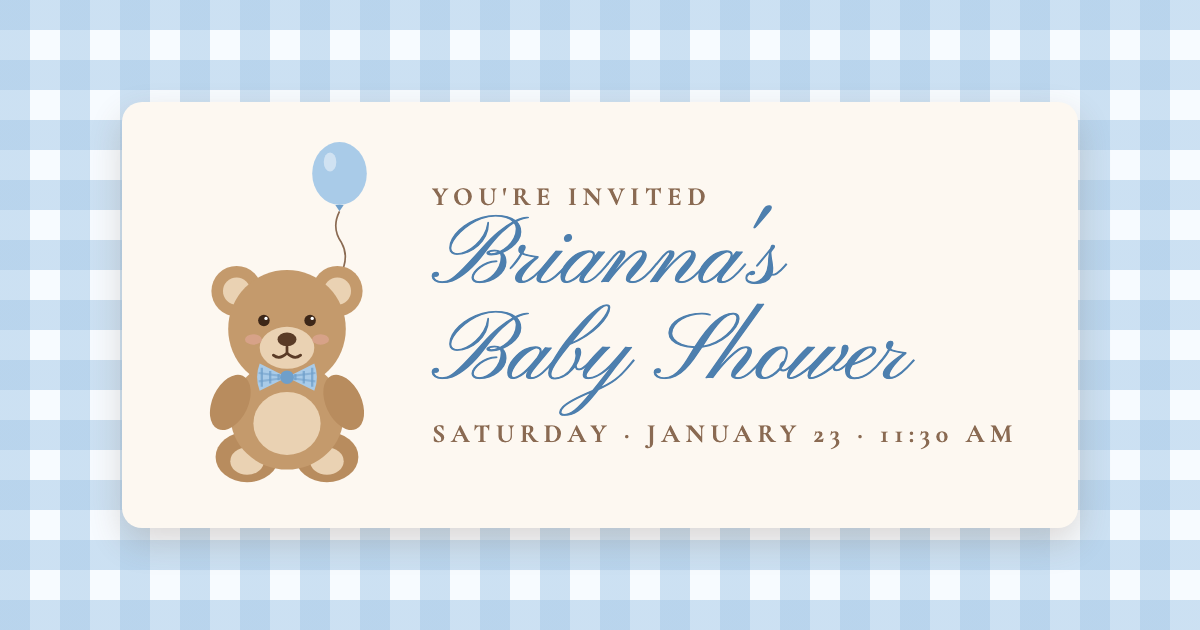
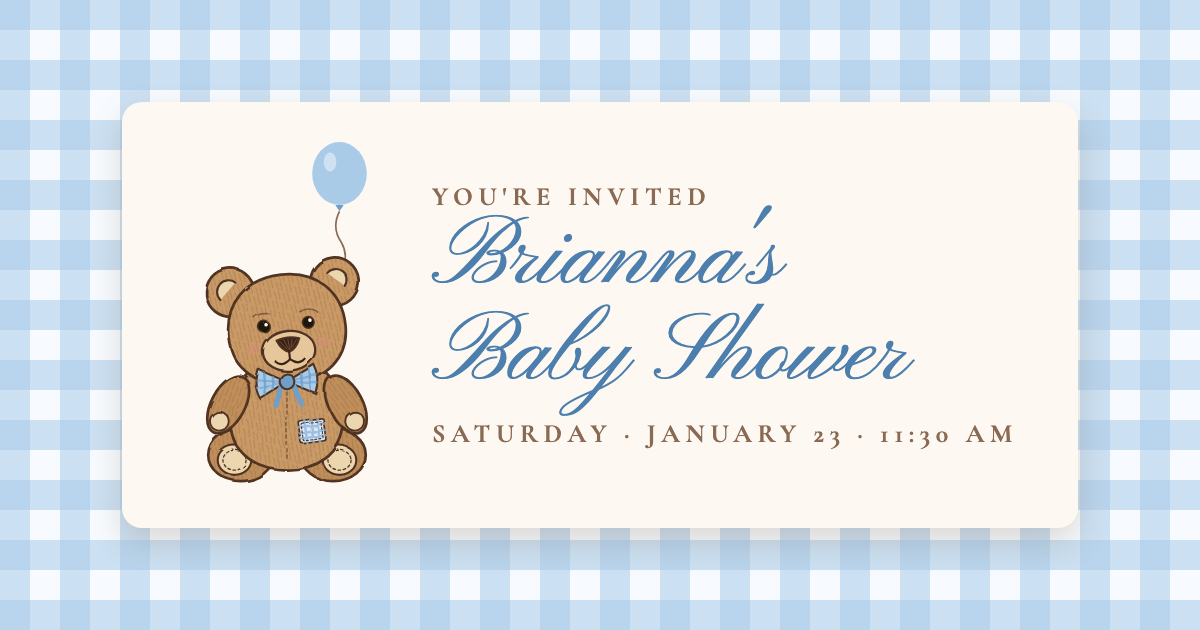
Retro bear, remove predictions game, new wording, diapers or wipes

Changed region(s): [[0.1542, 0.3921, 0.3083, 0.7841]]

diff --git a/index.html b/index.html
@@ -106,7 +106,7 @@ a{color:inherit}
 .honor .caps{font-size:.68rem}
 .honor h1{font-family:var(--script);font-weight:400;font-size:3.9rem;color:var(--blue-ink);line-height:1;margin:8px 0 2px}
 .honor .sub{font-size:1.15rem;font-style:italic}
-.honor .bear{width:110px;margin:4px auto 0;display:block}
+.honor .bear{width:140px;margin:4px auto 0;display:block}
 .when .day{font-weight:700;letter-spacing:.2em;font-size:.78rem}
 .when .date{font-family:var(--script);font-size:clamp(1.7rem,8vw,2.4rem);color:var(--blue-ink);margin:6px 0 2px;line-height:1.1}
 .when .time{font-weight:700;letter-spacing:.14em;font-size:.95rem}
@@ -177,33 +177,73 @@ textarea{min-height:84px;resize:vertical}
 <!-- ===== reusable art ===== -->
 <svg width="0" height="0" style="position:absolute" aria-hidden="true">
   <defs>
+    <!-- vintage storybook teddy: inked outlines, hand-drawn wobble, mohair texture, stitched details -->
+    <filter id="inkwobble" x="-5%" y="-5%" width="110%" height="110%">
+      <feTurbulence type="fractalNoise" baseFrequency="0.035" numOctaves="2" seed="7"/>
+      <feDisplacementMap in="SourceGraphic" scale="3"/>
+    </filter>
+    <pattern id="mohair" width="9" height="9" patternUnits="userSpaceOnUse" patternTransform="rotate(18)">
+      <path d="M1 2 l2 3 M5 1 l1.5 3.5 M3 6 l2 2.5 M7 5 l1 3" stroke="#8a5f38" stroke-width=".9" stroke-linecap="round" opacity=".45"/>
+    </pattern>
     <symbol id="bear" viewBox="0 0 200 230">
-      <!-- ears -->
-      <circle cx="52" cy="42" r="24" fill="#c49a6c"/><circle cx="52" cy="42" r="13" fill="#ead2b3"/>
-      <circle cx="148" cy="42" r="24" fill="#c49a6c"/><circle cx="148" cy="42" r="13" fill="#ead2b3"/>
-      <!-- legs -->
-      <ellipse cx="62" cy="200" rx="30" ry="24" fill="#b88c5e"/><ellipse cx="62" cy="204" rx="16" ry="13" fill="#ead2b3"/>
-      <ellipse cx="138" cy="200" rx="30" ry="24" fill="#b88c5e"/><ellipse cx="138" cy="204" rx="16" ry="13" fill="#ead2b3"/>
-      <!-- body -->
-      <ellipse cx="100" cy="160" rx="54" ry="52" fill="#c49a6c"/>
-      <ellipse cx="100" cy="168" rx="32" ry="30" fill="#ead2b3"/>
-      <!-- arms -->
-      <ellipse cx="46" cy="148" rx="17" ry="28" transform="rotate(25 46 148)" fill="#b88c5e"/>
-      <ellipse cx="154" cy="148" rx="17" ry="28" transform="rotate(-25 154 148)" fill="#b88c5e"/>
-      <!-- head -->
-      <circle cx="100" cy="78" r="56" fill="#c49a6c"/>
-      <ellipse cx="100" cy="96" rx="26" ry="20" fill="#ead2b3"/>
-      <ellipse cx="100" cy="88" rx="9" ry="6.5" fill="#5a3b26"/>
-      <path d="M100 95 v6 M100 101 q-7 7 -13 2 M100 101 q7 7 13 2" stroke="#5a3b26" stroke-width="2.6" fill="none" stroke-linecap="round"/>
-      <circle cx="78" cy="70" r="5.5" fill="#3d2718"/><circle cx="122" cy="70" r="5.5" fill="#3d2718"/>
-      <circle cx="80" cy="68" r="1.6" fill="#fff"/><circle cx="124" cy="68" r="1.6" fill="#fff"/>
-      <ellipse cx="68" cy="88" rx="8" ry="5" fill="#e8a9a0" opacity=".55"/><ellipse cx="132" cy="88" rx="8" ry="5" fill="#e8a9a0" opacity=".55"/>
-      <!-- gingham bow -->
-      <g transform="translate(100 124)">
-        <path d="M0 0 L-26 -13 Q-31 0 -26 13 Z" fill="#a9cbe8"/><path d="M0 0 L26 -13 Q31 0 26 13 Z" fill="#a9cbe8"/>
-        <path d="M-24 -9 L-24 9 M-16 -6 L-16 6 M-8 -3 L-8 3 M24 -9 L24 9 M16 -6 L16 6 M8 -3 L8 3" stroke="#6f9fca" stroke-width="2.2" opacity=".75"/>
-        <path d="M-27 -4 L-4 -1 M-27 4 L-4 1 M27 -4 L4 -1 M27 4 L4 1" stroke="#6f9fca" stroke-width="2" opacity=".55"/>
-        <circle r="6.5" fill="#6f9fca"/>
+      <g filter="url(#inkwobble)" stroke="#4f3322" stroke-width="2.6" stroke-linejoin="round" stroke-linecap="round">
+        <!-- ears -->
+        <g transform="rotate(-6 100 80)">
+          <circle cx="50" cy="38" r="23" fill="#c99a66"/><circle cx="50" cy="38" r="23" fill="url(#mohair)" stroke="none"/>
+          <path d="M40 44 a11 11 0 0 1 16 -15" fill="#ecd6b0" stroke-width="2"/>
+          <circle cx="150" cy="38" r="23" fill="#c99a66"/><circle cx="150" cy="38" r="23" fill="url(#mohair)" stroke="none"/>
+          <path d="M160 44 a11 11 0 0 0 -16 -15" fill="#ecd6b0" stroke-width="2"/>
+        </g>
+        <!-- legs, sitting -->
+        <ellipse cx="56" cy="198" rx="31" ry="25" fill="#bf8e5a"/><ellipse cx="56" cy="198" rx="31" ry="25" fill="url(#mohair)" stroke="none"/>
+        <ellipse cx="144" cy="198" rx="31" ry="25" fill="#bf8e5a"/><ellipse cx="144" cy="198" rx="31" ry="25" fill="url(#mohair)" stroke="none"/>
+        <ellipse cx="50" cy="203" rx="16" ry="14" fill="#ecd6b0" stroke-width="2"/>
+        <ellipse cx="50" cy="203" rx="11" ry="9.5" fill="none" stroke-width="1.2" stroke-dasharray="2.5 2.5"/>
+        <ellipse cx="150" cy="203" rx="16" ry="14" fill="#ecd6b0" stroke-width="2"/>
+        <ellipse cx="150" cy="203" rx="11" ry="9.5" fill="none" stroke-width="1.2" stroke-dasharray="2.5 2.5"/>
+        <!-- body -->
+        <path d="M100 106 C138 106 156 136 154 168 C152 198 128 212 100 212 C72 212 48 198 46 168 C44 136 62 106 100 106 Z" fill="#c99a66"/>
+        <path d="M100 106 C138 106 156 136 154 168 C152 198 128 212 100 212 C72 212 48 198 46 168 C44 136 62 106 100 106 Z" fill="url(#mohair)" stroke="none"/>
+        <path d="M100 132 V204" fill="none" stroke-width="1.2" stroke-dasharray="3 3" opacity=".7"/>
+        <!-- gingham patch on tummy -->
+        <g transform="rotate(-8 124 176)">
+          <rect x="112" y="164" width="24" height="22" rx="2" fill="#dbe9f6" stroke-width="1.6"/>
+          <path d="M118 164 v22 M124 164 v22 M130 164 v22 M112 170 h24 M112 176 h24 M112 181 h24" stroke="#8fb5da" stroke-width="2.4" opacity=".8"/>
+          <rect x="114.5" y="166.5" width="19" height="17" rx="1" fill="none" stroke-width="1" stroke-dasharray="2 2"/>
+        </g>
+        <!-- arms -->
+        <g transform="rotate(28 44 150)">
+          <ellipse cx="44" cy="150" rx="16" ry="30" fill="#bf8e5a"/><ellipse cx="44" cy="150" rx="16" ry="30" fill="url(#mohair)" stroke="none"/>
+          <ellipse cx="44" cy="168" rx="9" ry="9" fill="#ecd6b0" stroke-width="1.8"/>
+        </g>
+        <g transform="rotate(-28 156 150)">
+          <ellipse cx="156" cy="150" rx="16" ry="30" fill="#bf8e5a"/><ellipse cx="156" cy="150" rx="16" ry="30" fill="url(#mohair)" stroke="none"/>
+          <ellipse cx="156" cy="168" rx="9" ry="9" fill="#ecd6b0" stroke-width="1.8"/>
+        </g>
+        <!-- head -->
+        <g transform="rotate(-6 100 80)">
+          <path d="M100 26 C134 26 156 48 156 80 C156 112 132 130 100 130 C68 130 44 112 44 80 C44 48 66 26 100 26 Z" fill="#c99a66"/>
+          <path d="M100 26 C134 26 156 48 156 80 C156 112 132 130 100 130 C68 130 44 112 44 80 C44 48 66 26 100 26 Z" fill="url(#mohair)" stroke="none"/>
+          <ellipse cx="100" cy="99" rx="25" ry="19" fill="#e6c79c" stroke-width="2.2"/>
+          <!-- stitched nose -->
+          <path d="M89 88 Q100 84 111 88 Q107 98 100 100 Q93 98 89 88 Z" fill="#3b2416" stroke-width="1.8"/>
+          <path d="M92 89 L98 97 M96 88 L100 98 M100 88 L101 98 M104 88 L102 97 M108 89 L103 96" stroke="#6b4a33" stroke-width=".9"/>
+          <!-- thread mouth -->
+          <path d="M100 100 V107 M100 107 Q92 114 86 108 M100 107 Q108 114 114 108" fill="none" stroke="#3b2416" stroke-width="2"/>
+          <!-- shoe-button eyes -->
+          <circle cx="79" cy="74" r="5.6" fill="#1f140d" stroke-width="1.4"/><circle cx="121" cy="74" r="5.6" fill="#1f140d" stroke-width="1.4"/>
+          <circle cx="80.8" cy="72" r="1.7" fill="#fff" stroke="none"/><circle cx="122.8" cy="72" r="1.7" fill="#fff" stroke="none"/>
+          <path d="M70 64 q8 -5 16 -1 M114 63 q8 -4 16 1" fill="none" stroke-width="1.6" opacity=".55"/>
+          <ellipse cx="67" cy="94" rx="8" ry="5" fill="#d98e7e" opacity=".35" stroke="none"/><ellipse cx="133" cy="94" rx="8" ry="5" fill="#d98e7e" opacity=".35" stroke="none"/>
+        </g>
+        <!-- gingham bow -->
+        <g transform="translate(100 128) rotate(-4)">
+          <path d="M0 0 L-27 -14 Q-33 0 -27 14 Z" fill="#a9cbe8" stroke-width="2"/><path d="M0 0 L27 -14 Q33 0 27 14 Z" fill="#a9cbe8" stroke-width="2"/>
+          <path d="M-22 -10 L-22 10 M-14 -6 L-14 6 M22 -10 L22 10 M14 -6 L14 6" stroke="#6f9fca" stroke-width="2.4" opacity=".8"/>
+          <path d="M-29 -4 L-6 -1 M-29 4 L-6 1 M29 -4 L6 -1 M29 4 L6 1" stroke="#6f9fca" stroke-width="2.2" opacity=".6"/>
+          <path d="M-5 2 L-12 22 M5 2 L12 22" fill="none" stroke="#6f9fca" stroke-width="5"/>
+          <ellipse rx="7" ry="7.5" fill="#6f9fca" stroke-width="2"/>
+        </g>
       </g>
     </symbol>
     <symbol id="balloon" viewBox="0 0 60 130">
@@ -243,7 +283,7 @@ textarea{min-height:84px;resize:vertical}
     <div class="hero-title">
       <div class="caps">Oh baby!</div>
       <div class="script">We can bearly wait</div>
-      <div class="caps">a little one is on the way</div>
+      <div class="caps">to celebrate a sweet new arrival</div>
     </div>
 
     <div class="env-zone">
@@ -274,7 +314,7 @@ textarea{min-height:84px;resize:vertical}
         <span class="tape"></span>
         <div class="caps">Please join us for a baby shower honoring</div>
         <h1>Brianna Judin</h1>
-        <div class="sub">a little bear is on the way</div>
+        <div class="sub">as we celebrate her sweet new arrival</div>
         <svg class="bear" viewBox="0 0 200 230" aria-hidden="true"><use href="#bear"/></svg>
       </div>
 
@@ -304,24 +344,18 @@ textarea{min-height:84px;resize:vertical}
         </div>
       </div>
 
-      <a class="paper card tile tilt-r" id="registryTile" target="_blank" rel="noopener" style="text-decoration:none">
+      <a class="paper card full tile kraft tilt-r" id="registryTile" target="_blank" rel="noopener" style="text-decoration:none">
         <svg class="icon"><use href="#gift"/></svg>
         <div class="small">Click for the</div>
         <div class="script">Registry</div>
       </a>
 
-      <button class="paper card tile kraft tilt-l" data-go="guess">
-        <svg class="icon"><use href="#scale"/></svg>
-        <div class="small">Play</div>
-        <div class="script" style="font-size:clamp(1.6rem,7.4vw,2.2rem);overflow-wrap:normal">Baby Predictions</div>
-      </button>
-
-      <div class="paper card full tilt-r">
+      <div class="paper card full tilt-l">
         <span class="tape"></span>
         <svg class="icon"><use href="#diaper"/></svg>
         <h3>Diaper Raffle</h3>
-        <p>Bring a pack of diapers, any size, for a chance to win a special prize!</p>
-        <p class="note">Every pack you bring is one entry in the drawing.</p>
+        <p>Bring a pack of diapers or wipes, any size, for a chance to win a special prize!</p>
+        <p class="note">Every pack is one entry.</p>
       </div>
 
       <button class="paper card full tile rsvp-tile" data-go="rsvp" style="margin-top:14px">
@@ -383,72 +417,6 @@ textarea{min-height:84px;resize:vertical}
         <svg viewBox="0 0 200 230" aria-hidden="true"><use href="#bear"/></svg>
         <div class="script" id="rsvpThanksTitle">Thank you!</div>
         <p id="rsvpThanksMsg"></p>
-        <button class="btn brown" data-go="guess" style="margin-top:16px">Play Baby Predictions</button>
-      </div>
-      <button class="back" data-go="invite">Return to invitation</button>
-    </div>
-  </div>
-</section>
-
-<!-- ===================== 4. PREDICTIONS ===================== -->
-<section id="guess" class="screen" aria-label="Baby predictions">
-  <div class="wrap">
-    <div class="paper form-card">
-      <span class="tape"></span>
-      <form id="guessForm" novalidate>
-        <div class="form-head">
-          <div class="script">Baby Predictions</div>
-          <p>Make your guesses! The closest guesses win bragging rights.</p>
-        </div>
-        <div class="hp" aria-hidden="true"><input type="text" name="website" tabindex="-1" autocomplete="off"></div>
-
-        <label class="q" for="g_name">Your name</label>
-        <input type="text" id="g_name" name="name" autocomplete="name" required maxlength="80">
-
-        <div class="row">
-          <div><label class="q" for="g_date">Birthday</label><input type="date" id="g_date" name="birthDate"></div>
-          <div><label class="q" for="g_time">Time of birth</label><input type="time" id="g_time" name="birthTime"></div>
-        </div>
-
-        <label class="q">Weight</label>
-        <div class="row">
-          <select name="weightLb" aria-label="Pounds"><option value="">lbs</option></select>
-          <select name="weightOz" aria-label="Ounces"><option value="">oz</option></select>
-        </div>
-
-        <label class="q" for="g_len">Length (inches)</label>
-        <select id="g_len" name="length"><option value="">Choose</option></select>
-
-        <label class="q">Hair</label>
-        <div class="choice three">
-          <input type="radio" id="g_h1" name="hair" value="Bald"><label for="g_h1">Bald</label>
-          <input type="radio" id="g_h2" name="hair" value="A little fuzz"><label for="g_h2">A little</label>
-          <input type="radio" id="g_h3" name="hair" value="A full head"><label for="g_h3">A full head</label>
-        </div>
-
-        <label class="q">Eye color</label>
-        <div class="choice three">
-          <input type="radio" id="g_e1" name="eyes" value="Brown"><label for="g_e1">Brown</label>
-          <input type="radio" id="g_e2" name="eyes" value="Blue"><label for="g_e2">Blue</label>
-          <input type="radio" id="g_e3" name="eyes" value="Green / Hazel"><label for="g_e3">Green</label>
-        </div>
-
-        <label class="q">Baby will look more like</label>
-        <div class="choice two">
-          <input type="radio" id="g_l1" name="looksLike" value="Mom"><label for="g_l1">Mom</label>
-          <input type="radio" id="g_l2" name="looksLike" value="Dad"><label for="g_l2">Dad</label>
-        </div>
-
-        <label class="q" for="g_wish">Wishes or advice for the parents <span style="font-weight:400">(optional)</span></label>
-        <textarea id="g_wish" name="wish" maxlength="600"></textarea>
-
-        <button class="submit" type="submit">Submit my guesses</button>
-        <div class="err" id="guessErr" role="alert"></div>
-      </form>
-      <div class="thanks hidden" id="guessThanks">
-        <svg viewBox="0 0 200 230" aria-hidden="true"><use href="#bear"/></svg>
-        <div class="script">Guesses saved!</div>
-        <p>We'll find out who was closest after baby arrives.</p>
       </div>
       <button class="back" data-go="invite">Return to invitation</button>
     </div>
@@ -472,7 +440,7 @@ const CONFIG = {
 };
 
 /* ---------- screens ---------- */
-const screens = ['landing','invite','rsvp','guess'];
+const screens = ['landing','invite','rsvp'];
 function go(id, push = true){
   screens.forEach(s => document.getElementById(s).classList.toggle('on', s === id));
   window.scrollTo(0,0);
@@ -492,7 +460,7 @@ function openEnv(){
 env.addEventListener('click', openEnv);
 env.addEventListener('keydown', e => { if (e.key === 'Enter' || e.key === ' ') { e.preventDefault(); openEnv(); } });
 document.getElementById('tapBtn').addEventListener('click', openEnv);
-if (['invite','rsvp','guess'].includes(location.hash.slice(1))) go(location.hash.slice(1), false);
+if (['invite','rsvp'].includes(location.hash.slice(1))) go(location.hash.slice(1), false);
 
 /* ---------- details ---------- */
 document.getElementById('addr').innerHTML = CONFIG.ADDRESS_LINES.map(l => l.replace(/[<>&]/g,'')).join('<br>');
@@ -508,9 +476,9 @@ const z = d => d.toISOString().replace(/[-:]/g,'').replace(/\.\d{3}/,'');
 const where = CONFIG.MAP_QUERY || CONFIG.ADDRESS_LINES.join(', ');
 const title = "Brianna's Baby Shower";
 document.getElementById('gcal').href = 'https://calendar.google.com/calendar/render?action=TEMPLATE&text=' + encodeURIComponent(title) +
-  '&dates=' + z(start) + '/' + z(end) + '&location=' + encodeURIComponent(where) + '&details=' + encodeURIComponent('Bring a pack of diapers for the diaper raffle!');
+  '&dates=' + z(start) + '/' + z(end) + '&location=' + encodeURIComponent(where) + '&details=' + encodeURIComponent('Bring a pack of diapers or wipes for the diaper raffle!');
 const ics = ['BEGIN:VCALENDAR','VERSION:2.0','PRODID:-//Judin//Baby Shower//EN','BEGIN:VEVENT','UID:brianna-baby-shower-20270123','DTSTAMP:' + z(new Date()),
-  'DTSTART:' + z(start),'DTEND:' + z(end),'SUMMARY:' + title,'LOCATION:' + where.replace(/,/g,'\\,'),'DESCRIPTION:Bring a pack of diapers for the diaper raffle!','END:VEVENT','END:VCALENDAR'].join('\r\n');
+  'DTSTART:' + z(start),'DTEND:' + z(end),'SUMMARY:' + title,'LOCATION:' + where.replace(/,/g,'\\,'),'DESCRIPTION:Bring a pack of diapers or wipes for the diaper raffle!','END:VEVENT','END:VCALENDAR'].join('\r\n');
 document.getElementById('ics').href = 'data:text/calendar;charset=utf-8,' + encodeURIComponent(ics);
 
 /* ---------- countdown ---------- */
@@ -523,12 +491,6 @@ function tick(){
   document.getElementById('cdM').textContent = Math.floor(ms / 6e4);
 }
 tick(); setInterval(tick, 30000);
-
-/* ---------- prediction selects ---------- */
-const lb = document.querySelector('[name=weightLb]'), oz = document.querySelector('[name=weightOz]'), len = document.getElementById('g_len');
-for (let i = 4; i <= 11; i++) lb.add(new Option(i + ' lbs', i));
-for (let i = 0; i <= 15; i++) oz.add(new Option(i + ' oz', i));
-for (let i = 16; i <= 24; i += .5) len.add(new Option(i + '"', i));
 
 /* ---------- submit ---------- */
 if (!CONFIG.SCRIPT_URL) document.getElementById('demoBadge').classList.remove('hidden');
@@ -563,32 +525,12 @@ rsvpForm.addEventListener('submit', async e => {
     document.getElementById('rsvpThanks').classList.remove('hidden');
     document.getElementById('rsvpThanksTitle').textContent = d.attending === 'Yes' ? 'See you there!' : "We'll miss you!";
     document.getElementById('rsvpThanksMsg').textContent = d.attending === 'Yes'
-      ? "Your RSVP is in. Don't forget a pack of diapers for the raffle!"
-      : 'Thank you for letting us know. You can still play Baby Predictions!';
+      ? "Your RSVP is in. Don't forget a pack of diapers or wipes for the raffle!"
+      : 'Thank you for letting us know. Brianna will miss you!';
   } catch (x) {
     err.textContent = 'That didn\'t go through. Please try again in a moment.';
   }
   btn.disabled = false; btn.textContent = 'Send RSVP';
-});
-
-const guessForm = document.getElementById('guessForm');
-guessForm.addEventListener('submit', async e => {
-  e.preventDefault();
-  const d = data(guessForm), err = document.getElementById('guessErr');
-  if (d.website) return;
-  if (!d.name) { err.textContent = 'Please add your name.'; return; }
-  if (!d.birthDate && !d.weightLb && !d.length) { err.textContent = 'Make at least one guess!'; return; }
-  err.textContent = '';
-  const btn = guessForm.querySelector('.submit'); btn.disabled = true; btn.textContent = 'Saving...';
-  try {
-    await send({ type:'guess', ...d });
-    store('guess', '1');
-    guessForm.classList.add('hidden');
-    document.getElementById('guessThanks').classList.remove('hidden');
-  } catch (x) {
-    err.textContent = 'That didn\'t go through. Please try again in a moment.';
-  }
-  btn.disabled = false; btn.textContent = 'Submit my guesses';
 });
 </script>
 </body>
